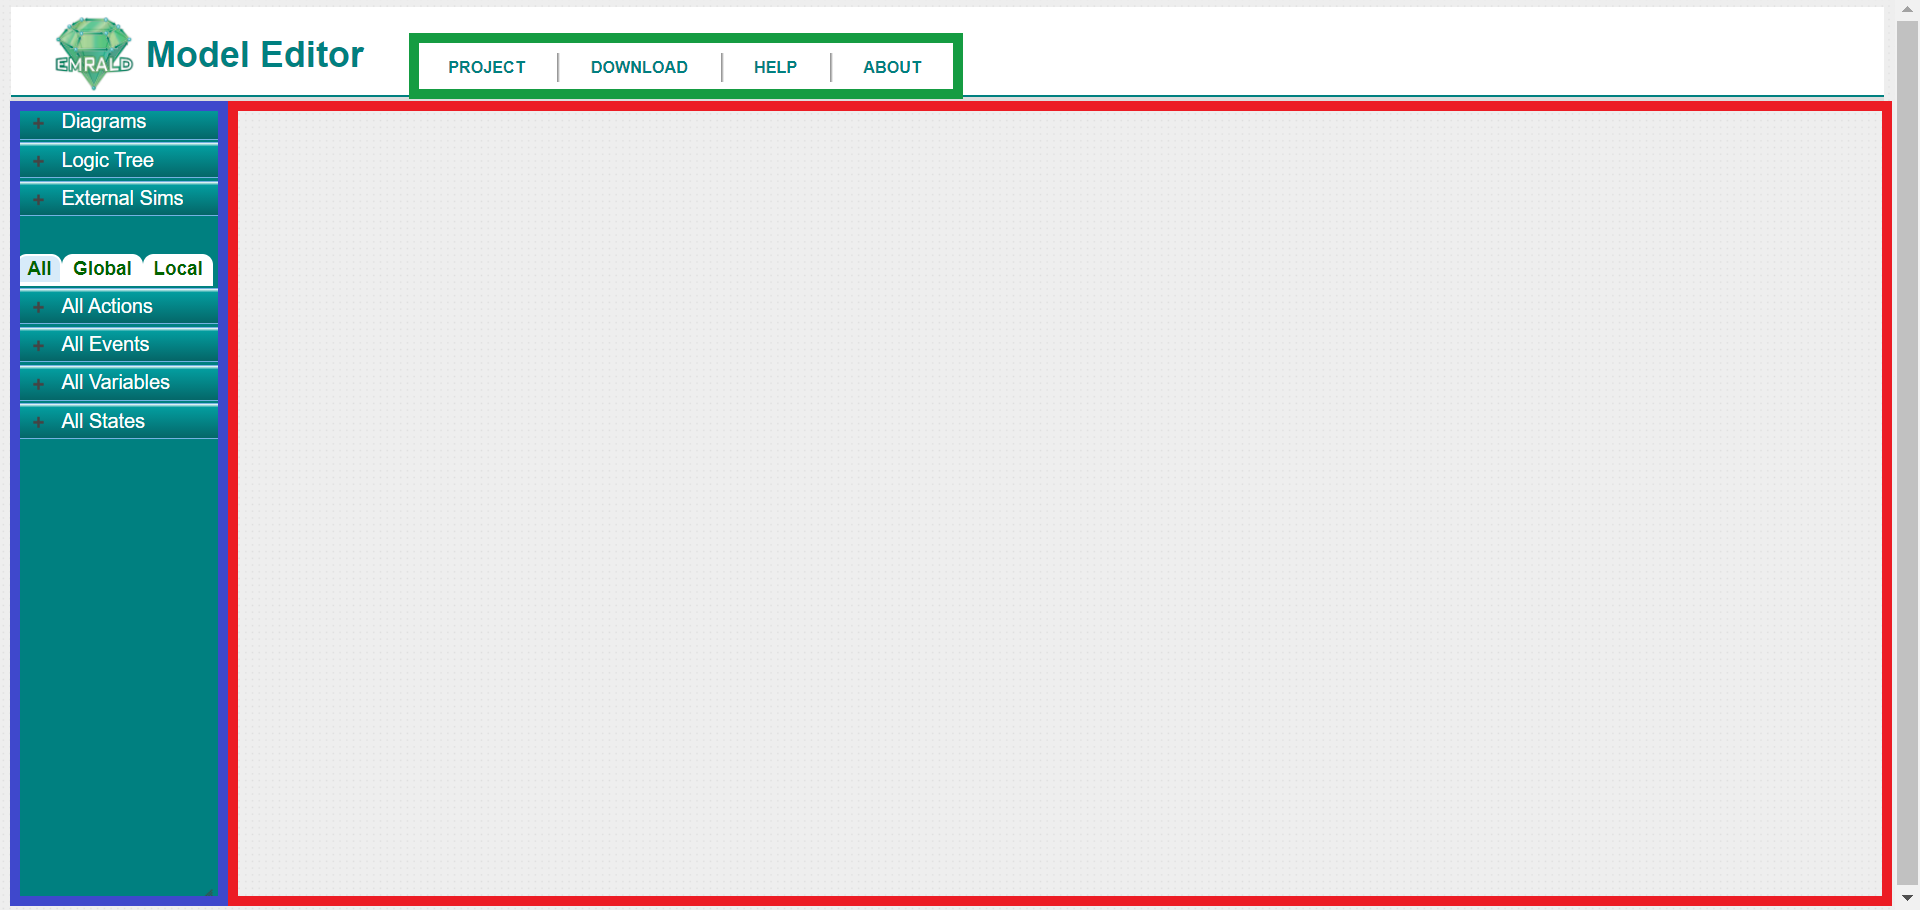
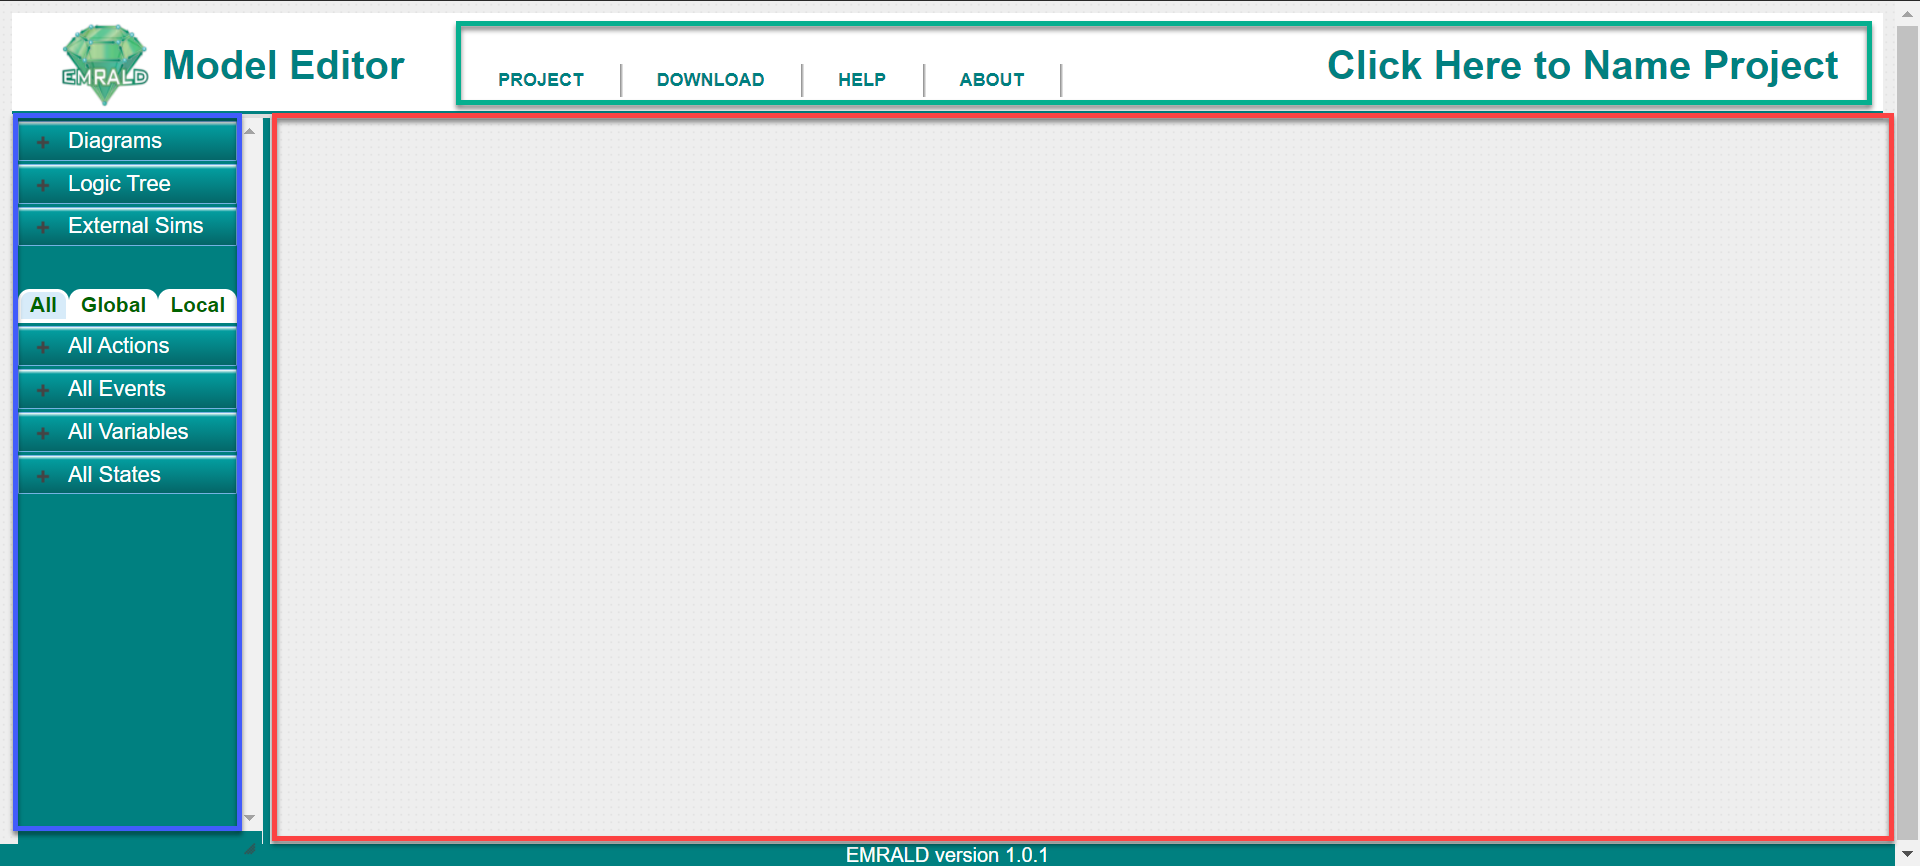
Draft 1 of Click Here to Name Project

Changed region(s): [[0.0, 0.0, 1.0, 1.0]]

diff --git a/emrald-docs/src/guide/Modeling/webUIOverview.md b/emrald-docs/src/guide/Modeling/webUIOverview.md
@@ -4,10 +4,10 @@
 ## Initial Screen
 ![Initial Screen](/images/Modeling/webUIOverview/InitialScreenSectionHighlights.PNG) <br>
   This is the screen you will see when you first open the EMRALD model editor. It contains the 
-  <span style="color:red">Modeling Area</span>, 
+  <span style="color:red">Modeling Area</span> which is the main workspace, 
   <span style="color:green">Top Menu Bar</span>, and
   <span style="color:blue">Left Navigation Frame</span>
-   which will be explained in the following sections.
+   which are editing and navigation panes that will be explained in the following sections.
 
 ## Top Menu Bar
 **Project** <br>
@@ -15,7 +15,7 @@
   * **New**: Creates a new project. The following window appears in the Modeling Area.<br>
   <div style="width:500px">![New Project Window](/images/Modeling/webUIOverview/NewProject.PNG)</div><br>
 
-      After hitting the "Ok" button, your project name will populate the right corner of the header.<br>![New Project Window](/images/Modeling/webUIOverview/NewProjectHeader.PNG)
+      After hitting the "Ok" button, your project name will populate the right corner of the header. See the following subsection, "Click Here to Name Project," to see another method for naming or renaming your project. <br>![New Project Window](/images/Modeling/webUIOverview/NewProjectHeader.PNG)
   - **Merge:** Merge one project into another project. This will pull in all diagrams, states, events, actions, variables, and logic trees into the project. First it will bring up a File Explorer, browse for the file you want to merge in and click "Open". <br>
   <div style="width:500px">![Open File to Merge Window](/images/Modeling/webUIOverview/Merge_1.PNG)</div><br>
   If there are diagrams or components with identical names in the models being merged, a conflict window will appear with a list of all of the identically named items. There are three options of how to resolve the conflict.
@@ -46,6 +46,14 @@
   <div style="width:500px">![About Menu](/images/Modeling/webUIOverview/TopMenuAbout.PNG)</div> <br>
   This redirects you to the INL [EMRALD Website](https://google.com) as shown below.<br>
   ![About Menu](/images/Modeling/webUIOverview/AboutRedirect.PNG) <br>
+
+**Click Here to Name Project** <br>
+  Click this to rename the project. A pop up window will appear that will allow you to change the name of the current project. Type the new name in.<div style="width:400px">![Rename Pop Up](/images/Modeling/webUIOverview/EnterNewName.PNG)</div>
+
+  The new name will replace "Click Here to Name Project" in the top right hand corner.  
+  <br>![New Project Window](/images/Modeling/webUIOverview/NewProjectHeader.PNG)
+
+  This will not change the name of the file or save a new version of the file. This will only change the name of the model as would be seen in the model's file.
 
 ## Left Navigation Frame
 
@@ -128,5 +136,6 @@ See [Variables](/guide/Modeling/variables.md) for more information.
   States are a logical representation for a current condition in a diagram. <br>
 
   See [States](/guide/Modeling/states.md) for more information.
+
 
 <!--Copyright 2021 Battelle Energy Alliance-->
